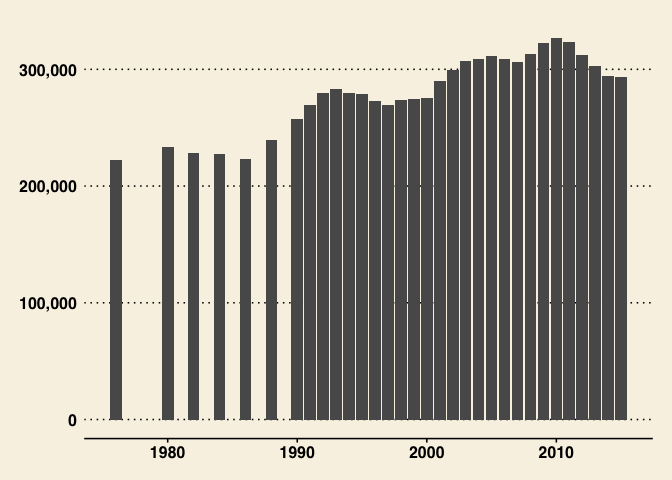
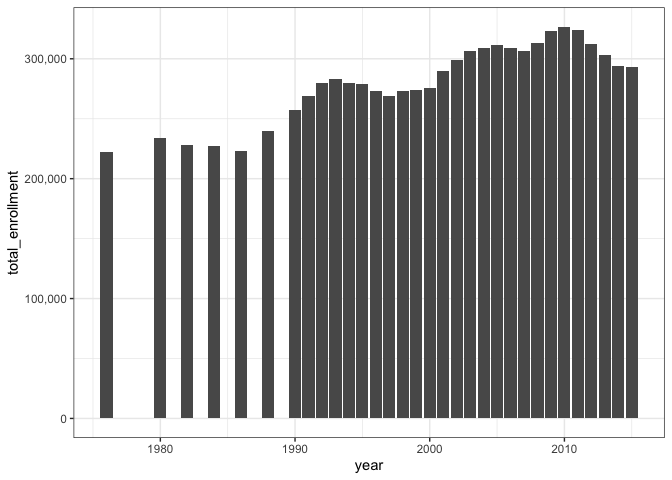
Cambios

diff --git a/Data-screencasts/hbcu_fundations.md b/Data-screencasts/hbcu_fundations.md
@@ -10,7 +10,7 @@ library(tidytext)
 library(ggthemes)
 library(knitr)
 library(scales)
-theme_set(theme_wsj())
+theme_set(theme_bw())
 library(modeldata)
 library(forecast)
 library(broom)
@@ -373,6 +373,7 @@ modelo es bueno para prónosticar.
 Para encontrar lo datos atípicos trabajaré con un isolation forest.
 
 ``` r
+set.seed(123)
 h2o.init(ip = "localhost",
          nthreads = -1,
          max_mem_size = "4g")
@@ -381,7 +382,7 @@ h2o.init(ip = "localhost",
     ##  Connection successful!
     ## 
     ## R is connected to the H2O cluster: 
-    ##     H2O cluster uptime:         1 hours 33 minutes 
+    ##     H2O cluster uptime:         1 hours 37 minutes 
     ##     H2O cluster timezone:       America/Bogota 
     ##     H2O data parsing timezone:  UTC 
     ##     H2O cluster version:        3.32.0.1 
@@ -407,6 +408,7 @@ datos_h2o <- as.h2o(x = hbcu_all$total_public)
 ```
 
 ``` r
+set.seed(234)
 isoforest <- h2o.isolationForest(
                 model_id = "isoforest",
                 training_frame = datos_h2o,
@@ -425,9 +427,9 @@ isoforest
     ## Model ID:  isoforest 
     ## Model Summary: 
     ##   number_of_trees number_of_internal_trees model_size_in_bytes min_depth
-    ## 1              50                       50                8978         3
+    ## 1              50                       50                8696         2
     ##   max_depth mean_depth min_leaves max_leaves mean_leaves
-    ## 1         7    5.00000          5         15     9.66000
+    ## 1         8    5.02000          4         15     9.24000
     ## 
     ## 
     ## H2OAnomalyDetectionMetrics: isolationforest
@@ -437,6 +439,7 @@ isoforest
 Con el modelo listo, se generan las distancias de aislamiento proemdio
 
 ``` r
+set.seed(432)
 predicciones_h2o <- h2o.predict(
                       object  = isoforest,
                       newdata = datos_h2o
@@ -446,12 +449,12 @@ head(predicciones)
 ```
 
     ##     predict mean_length
-    ## 1 0.8777778        1.78
-    ## 2 0.2888889        2.84
-    ## 3 0.3444444        2.74
-    ## 4 0.4333333        2.58
-    ## 5 0.6444444        2.20
-    ## 6 0.2555556        2.90
+    ## 1 1.0000000        1.00
+    ## 2 0.7982456        1.46
+    ## 3 0.8859649        1.26
+    ## 4 0.9385965        1.14
+    ## 5 0.9473684        1.12
+    ## 6 0.7631579        1.54
 
 ``` r
 predicciones%>%
@@ -466,7 +469,8 @@ ggplot(aes(x = mean_length)) +
 ```
 
 ![](hbcu_fundations_files/figure-gfm/unnamed-chunk-26-1.png)<!-- -->
-Todo parece indicar que solo hay un dato atípico.
+Todo parece indicar que solo hay datos con valores un poco altos pero no
+atípicos.
 
 ``` r
 cuantiles <- quantile(x = predicciones$mean_length, probs = seq(0, 1, 0.05))
